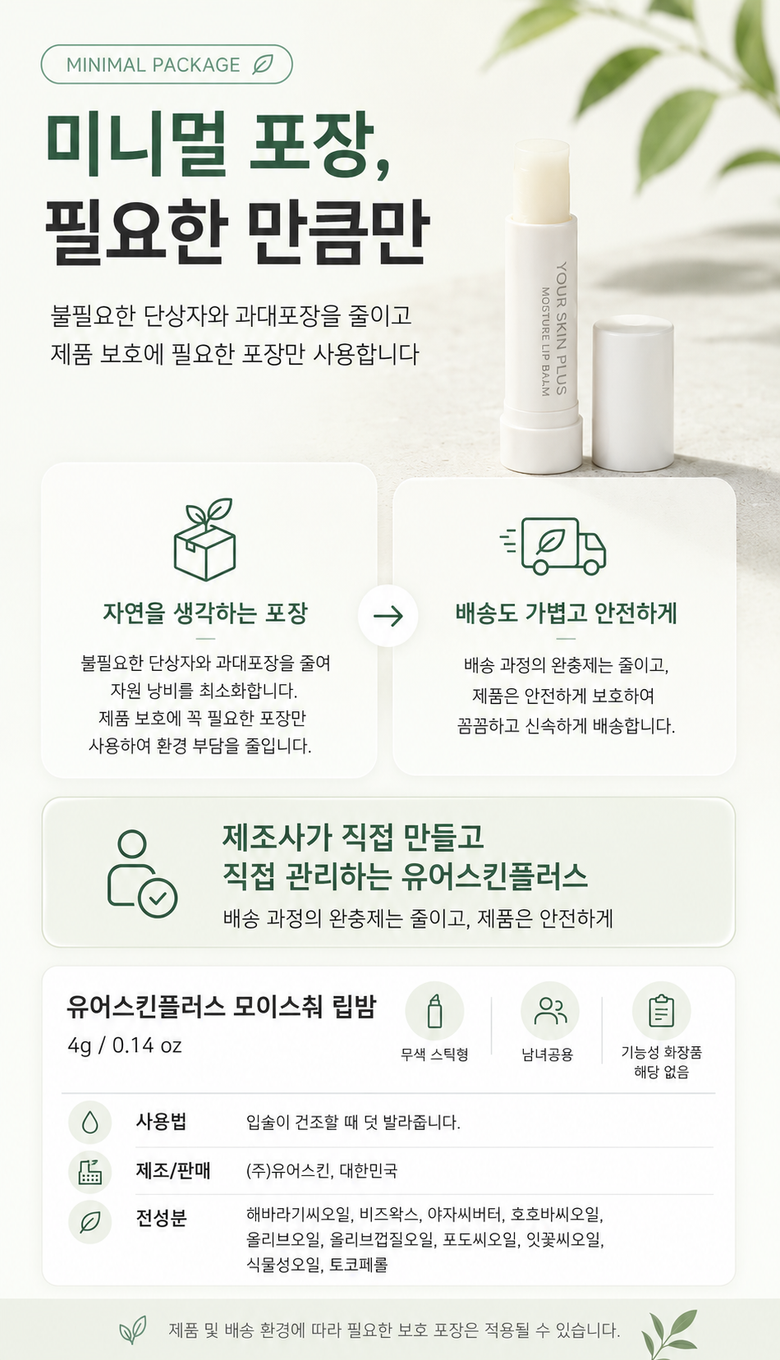
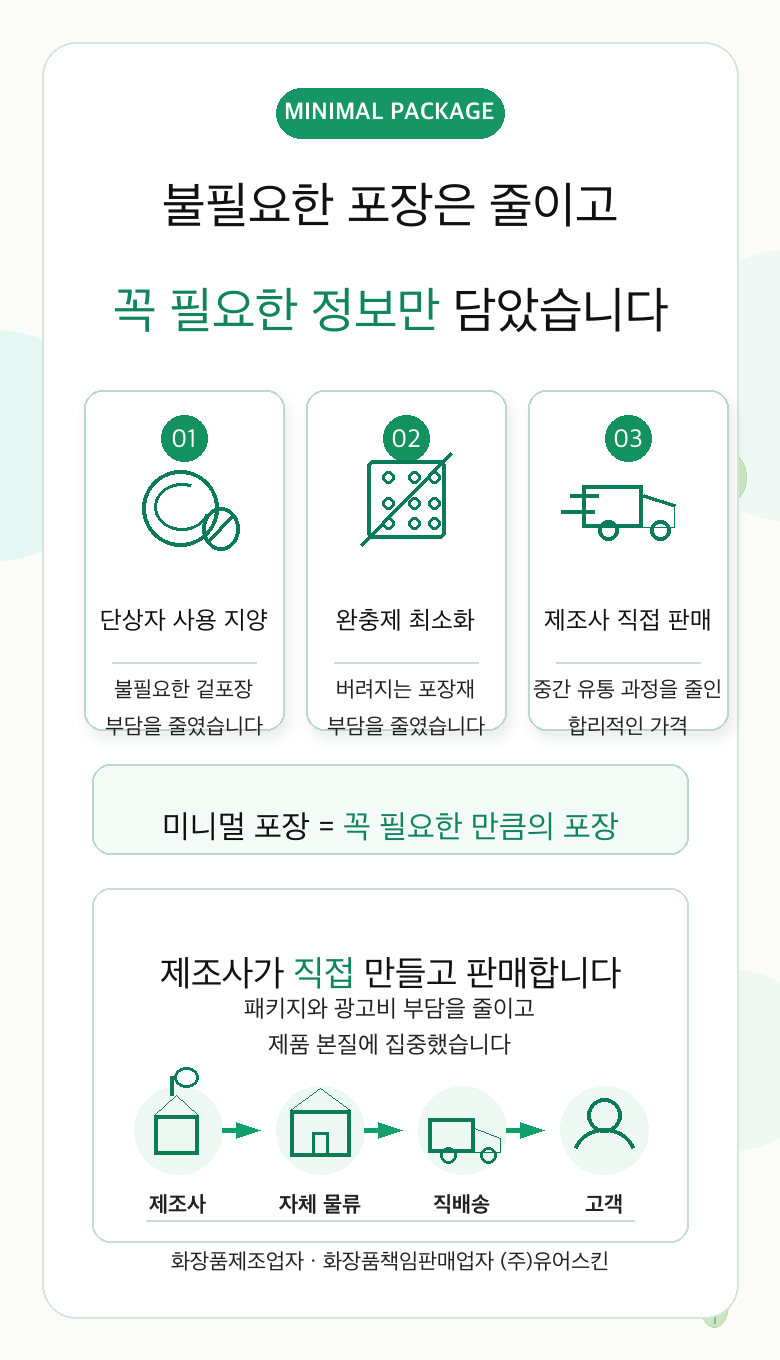
Fix moisture lip balm tail copy and workflow

diff --git a/docs/workflows/coupang-detail-renewal-workflow.md b/docs/workflows/coupang-detail-renewal-workflow.md
@@ -294,6 +294,53 @@ Prompt rules for this cut:
 - Use calm official guidance, not a harsh yellow/black warning poster.
 - No product bottle, label, package photo, box mockup, or fake product image; use shield/check/risk cards only.
 
+Minimal-package/direct-sale cut copy rules:
+
+- When making the minimal-package cut, use the concise buyer-facing package text direction Leo approved instead of generic product-info copy.
+- Preferred structure:
+
+```text
+MINIMAL PACKAGE
+
+불필요한 포장은 줄이고
+꼭 필요한 정보만 담았습니다
+
+01 단상자 사용 지양
+불필요한 겉포장 부담을 줄였습니다
+
+02 완충제 최소화
+버려지는 포장재 부담을 줄였습니다
+
+03 제조사 직접 판매
+중간 유통 과정을 줄인 합리적인 가격
+
+미니멀 포장 = 꼭 필요한 만큼의 포장
+
+제조사가 직접 만들고 판매합니다
+패키지와 광고비 부담을 줄이고
+제품 본질에 집중했습니다
+
+제조사 → 자체 물류 → 직배송 → 고객
+화장품제조업자 · 화장품책임판매업자 (주)유어스킨
+```
+
+- Keep this cut as packaging/direct-sale education. Do not crowd it with the full 제품정보/전성분 table; that dense legal table belongs at the very end.
+
+Legal/product-info table correction rules:
+
+- If the table has a row label `제품 주요 사항` or `제품 주요 사양` with a value like `모든 피부 타입`, change the label to `피부 타입`.
+- Align legal tables with generous top/bottom breathing room, consistent left-label column width, internal cell padding, and row heights/wrapping that keep long 전성분/주의사항 text away from grid lines.
+- For these small label/alignment fixes, deterministic exact-text rendering is acceptable when Leo did not explicitly request GPT Images provenance; ingredient order and legal text accuracy outrank decorative styling.
+
+### 7b. Generate representative/main images after detail images
+
+After the V1 detail sequence is generated, QA'd, and wired into the comparison page, immediately proceed to the representative/main image set unless Leo explicitly says to stop at detail-only.
+
+- Follow `references/representative-six-pack-generation.md` for the representative workflow.
+- Use the finalized detail-page direction as tone/reference context so the main images inherit the same product story.
+- Generate/check representative images one slot at a time, then update `manifest.json`, `src/data/marketingOps.ts`, and the comparison page so the representative set appears together with detail images.
+- Build and verify both detail images and representative images before reporting the V1 candidate as ready.
+
 ### 8. Update data and comparison pages
 
 Update:
